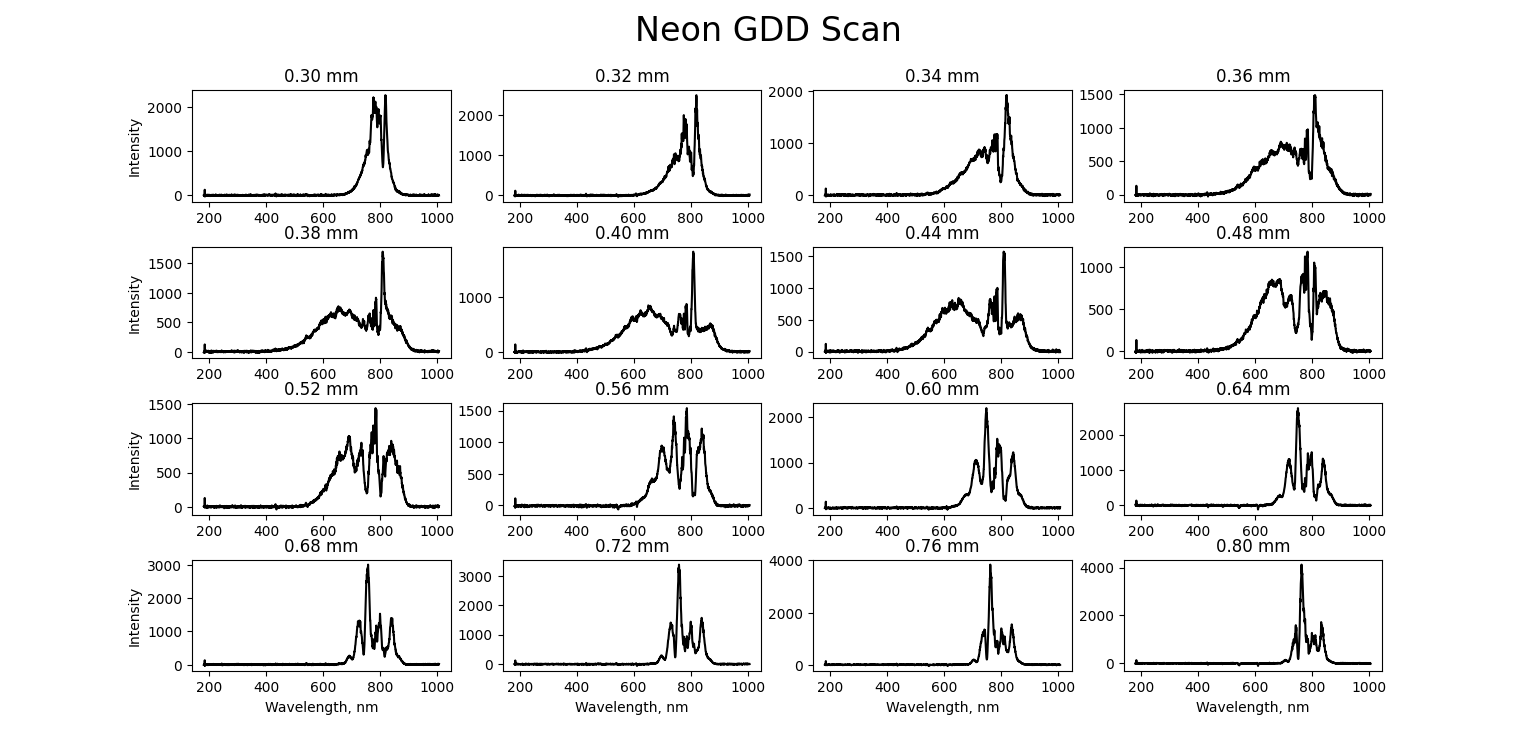
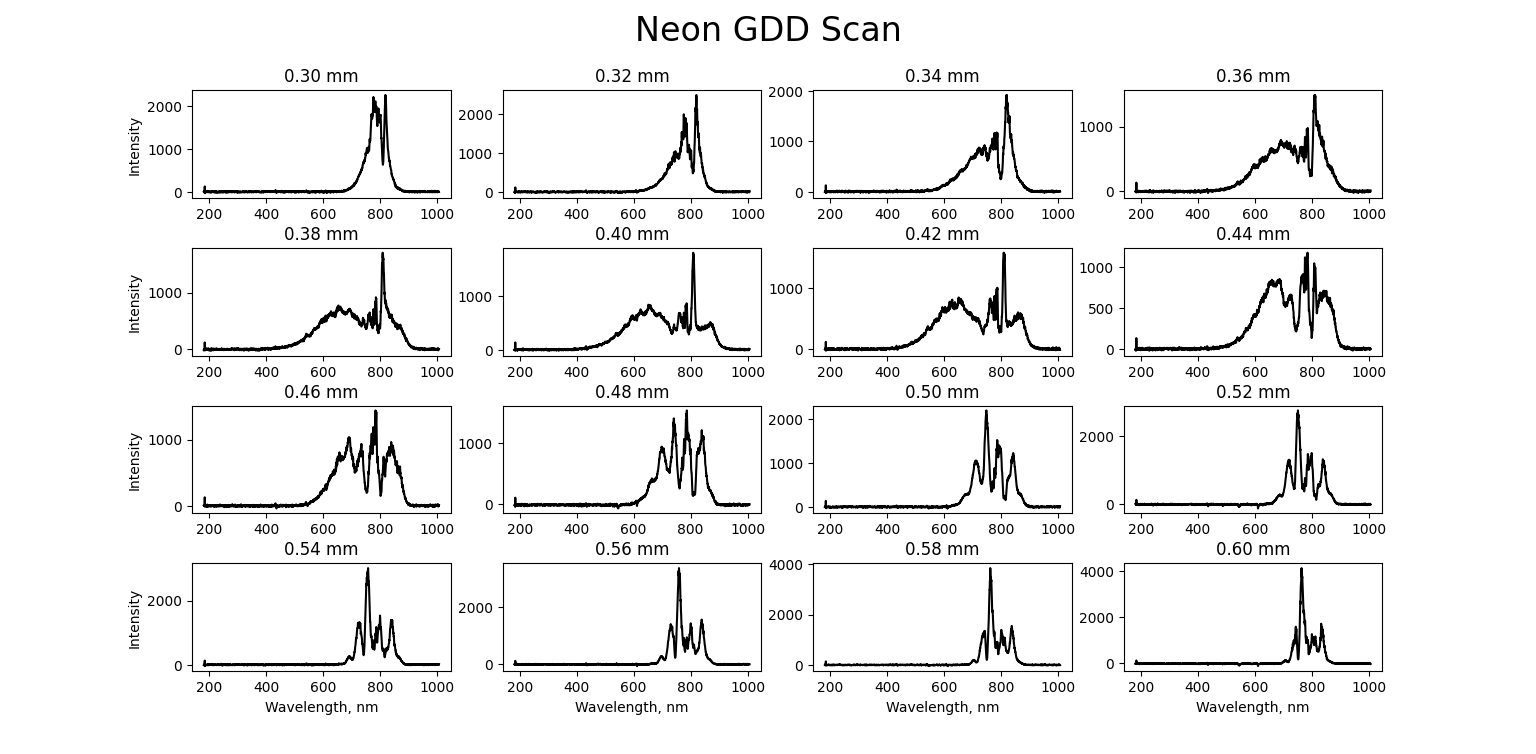
simulated GDD scans

diff --git a/HCF sim/Python/experiments/simulations/GDD_scan.py b/HCF sim/Python/experiments/simulations/GDD_scan.py
@@ -1,0 +1,106 @@
+import julia
+import matplotlib.pyplot as plt
+import numpy as np
+import pandas as pd
+import csv  
+import sys
+
+#sys.path.append("C:\\Users\\ML\\OneDrive - Imperial College London\\MSci_Project\\code\\Synth\\Optimising-Field-Synthesiser\\HCF sim\\Python\\building datasets\\")
+sys.path.append("C:\\Users\\iammo\\Documents\\Optimising-Field-Synthesiser\\HCF sim\\Python\\building_datasets\\")
+from theoretical_width import theoretical_width
+
+#sys.path.append('C:\\Users\\ML\\OneDrive - Imperial College London\\MSci_Project\\code\\Synth\\Optimising-Field-Synthesiser\\BO\\synthesiser_simulation\\chirp\\')
+sys.path.append('C:\\Users\\iammo\\Documents\\Optimising-Field-Synthesiser\\BO\\synthesiser_simulation\\chirp\\')
+from pulse_with_GDD import *
+
+#julia.Julia(runtime="C:\\Users\\ML\\AppData\\Local\\Programs\\Julia-1.7.0\\bin\\julia.exe")
+julia.Julia(runtime="C:\\Users\\iammo\\AppData\\Local\\Programs\\Julia-1.7.1\\bin\\julia.exe")
+
+from julia import Main
+
+Main.using("Luna")
+
+from rms_width import *
+c = 299792458 # m/s
+
+GDDs = np.linspace(-500*(10**-30), 500*(10**-30), 100)
+
+# Read input pulse params
+df = pd.read_csv("C:\\Users\\iammo\\Documents\\Optimising-Field-Synthesiser\\HCF sim\\Python\\experiments\\HCF_scans\\power in\\extracted_params.csv")
+powers = df.iloc[:,0]
+energies = powers/1000
+λ0s = df.iloc[:,1]
+domegas = df.iloc[:,2]
+
+# Define fixed params
+radius = 175e-6 # HCF core radius
+flength = 1.05 # HCF length
+Main.radius = radius
+Main.flength = flength
+c = 299792458 
+omega = np.linspace(2*np.pi*c/λ0s[0] - domegas[0]/2, 2*np.pi*c/λ0s[0] + domegas[0]/2, 100)
+gas = "Ne"
+Main.gas_str = gas
+Main.eval("gas = Symbol(gas_str)")
+pressure = (0,3)
+Main.pressure = pressure
+
+freq_widths=np.array([])
+for i in range(len(GDDs)):
+    print(i)
+    E, ϕω = E_field_freq(omega, GD=0.0, wavel=λ0s[1], domega=domegas[1], amp=1, CEP=0, GDD=GDDs[i], TOD=0)
+    Iω = np.abs(E**2)
+    Main.ω = omega
+    Main.Iω = Iω  
+    Main.phase = ϕω
+    Main.energy = energies[1]
+    Main.λ0 = λ0s[1]
+
+    Main.eval('pulse = Pulses.DataPulse(ω, Iω, phase; energy, λ0=NaN, mode=:lowest, polarisation=:linear, propagator=nothing)')
+    Main.duv = Main.eval('duv = prop_capillary(radius, flength, gas, pressure; λ0, pulses=pulse, trange=400e-15, λlims=(150e-9, 4e-6))')
+    
+    #now extract datasets
+    Main.eval("ω, Iω = Processing.getIω(duv, :ω, flength)")
+    Main.eval('t, Et = Processing.getEt(duv)')
+
+    ## These next lines show how t, Et and zactual could be accessed in the Python namespace for analysis
+    # Once defined, the same method as in time_1d can be used to get the y data needed for analysis of the curve (max heigh, FWHM, etc.), which
+    # subsequently would be the inputs the the BO 
+    #assign python variables
+    ω = Main.ω
+    Iω = Main.Iω
+    width=rms_width(ω,Iω)
+    freq_widths=np.append(freq_widths,width)
+
+wavel_widths = np.array([])
+for i in range(len(freq_widths)):
+    wavel_widths = np.append(wavel_widths, freq_widths[i]*(λ0s[1]**2)/c)
+
+plt.figure()
+plt.scatter(GDDs*(10**30),wavel_widths*(10**9),marker="+")
+plt.ylabel("RMS width, /nm")
+plt.xlabel('GDD, fs^2')
+plt.title('Simulated GDD Scan')
+plt.show()
+
+
+# Save the data
+header = ['GDD, fs^2', 'Simulated RMS Width, nm']
+with open('C:\\Users\\iammo\\Documents\\Optimising-Field-Synthesiser\\HCF sim\\Python\\experiments\\simulations\\data\\GDD_Scan.csv', 'w', encoding='UTF8', newline='') as f:
+    writer = csv.writer(f)
+    # write the header
+    writer.writerow(header)
+
+    # write the dataS
+    for i in range(len(GDDs)):
+        writer.writerow([GDDs[i]*(10**30), wavel_widths[i]*(10**9)])
+
+"""
+import pandas as pd
+df = pd.read_csv("C:\\Users\\iammo\\Documents\\Optimising-Field-Synthesiser\\HCF sim\\Python\\building datasets\\custom_input\\data\\GDD_Ne_long_range_vs_rms_width.csv")
+
+plt.plot(df.iloc[:,0],df.iloc[:,1])
+plt.ylabel("angular frequency width, /s")
+plt.xlabel('GDD, fs^2')
+plt.show()
+"""

diff --git a/HCF sim/Python/experiments/simulations/compare_widths_plot.py b/HCF sim/Python/experiments/simulations/compare_widths_plot.py
@@ -12,6 +12,8 @@ Ar_PowerScan_widths = []
 Ne_PowerScan_widths = []
 Ar_PressureScan_widths = []
 Ne_PressureScan_widths = []
+Ne_GDDScan_widths = []
+Ne_GDDScan_fine_widths = []
 
 Ar_powers = [1.29, 1.2, 1.1, 1.0, 0.9, 0.8, 0.7, 0.6, 0.5, 0.4, 0.3]
 Ne_powers = [1.24, 1.2, 1.1, 1.0, 0.9, 0.8, 0.7, 0.6, 0.5, 0.4, 0.3]
@@ -136,6 +138,77 @@ I = [I3_6, I3_4, I3_2, I3_0, I2_8, I2_6, I2_4, I2_2, I2_0, I1_8, I1_6, I1_4, I1_
 
 for i in range(len(I)):
     Ne_PressureScan_widths.append(rms_width(wavel_nm, I[i]))
+
+# Neon GDD Scan (both normal and fine scans combined)
+lines=[]
+columns=[[],[],[],[],[],[],[],[],[],[],[],[],[],[],[],[]]
+with open (filepath+'HCF_scans\\Neon_3bar_1.1W_GDDScan\\GDDScan.txt', 'rt') as myfile:  # Open lorem.txt for reading
+    for myline in myfile:
+        lines.append(myline)
+
+data=lines[22:] #gets rid of all the stuff at the top
+for i in data:
+    split=i.split("\t") #delimiter is \t
+    for j ,value in enumerate(split):
+        columns[j].append(float(value))
+
+wavel_nm=columns[0]
+I1=columns[1]
+I2=columns[2]
+I3=columns[3]
+I4=columns[4]
+I5=columns[5]
+I6=columns[6]
+I7=columns[7]
+I8=columns[8]
+I9=columns[9]
+I10=columns[10]
+I11=columns[11]
+I12=columns[12]
+I13=columns[13]
+I14=columns[14]
+I15=columns[15]
+
+lines=[]
+columns=[[],[],[],[],[],[],[],[],[],[],[],[],[],[],[],[],[]]
+with open (filepath+'HCF_scans\\Neon_3bar_1.1W_GDDScan\\GDDScan_fine.txt', 'rt') as myfile:  # Open lorem.txt for reading
+    for myline in myfile:
+        lines.append(myline)
+
+data=lines[22:] #gets rid of all the stuff at the top
+for i in data:
+    split=i.split("\t") #delimiter is \t
+    for j ,value in enumerate(split):
+        columns[j].append(float(value))
+
+wavel_nm=columns[0]
+I6_0=columns[1]
+I6_4=columns[2]
+I6_8=columns[3]
+I7_2=columns[4]
+I7_6=columns[5]
+I8_0=columns[6]
+I8_4=columns[7]
+I8_8=columns[8]
+I9_2=columns[9]
+I9_6=columns[10]
+I10_0=columns[11]
+I10_4=columns[12]
+I10_8=columns[13]
+I11_2=columns[14]
+I11_6=columns[15]
+I12_0=columns[16]
+I = [I1, I2, I3, I4, I5, I6, I7, I8, I9, I10, I11, I12, I13, I14, I15]
+Ne_GDDs = [0.05, 0.10, 0.15, 0.20, 0.25, 0.30, 0.35, 0.40, 0.45, 0.50, 0.55, 0.60, 0.65, 0.70, 0.75]
+I2 = [I6_0, I6_4, I6_8, I7_2, I7_6, I8_0, I8_4, I8_8, I9_2, I9_6, I10_0, I10_4, I10_8, I11_2, I11_6, I12_0]
+Ne_GDDs_fine = [0.30, 0.32, 0.34, 0.36, 0.38, 0.40, 0.42, 0.44, 0.46, 0.48, 0.50, 0.52, 0.54, 0.56, 0.58, 0.60]
+
+for i in range(len(I)):
+    Ne_GDDScan_widths.append(rms_width(wavel_nm, I[i]))
+for i in range(len(I2)):
+    Ne_GDDScan_fine_widths.append(rms_width(wavel_nm, I2[i]))
+
+
 
 #####################################################################################################################
 # Read simulation data
@@ -373,4 +446,13 @@ axs[1,0].set_title('Neon Power Scan')
 axs[1,1].set_title('Neon Pressure Scan')
 
 plt.legend()
+
+plt.figure()
+plt.plot(Ne_GDDs, Ne_GDDScan_widths, '+', color='tab:blue', label='Rough scan')
+plt.plot(Ne_GDDs_fine, Ne_GDDScan_fine_widths, '+', color='tab:red', label='Fine Scan')
+plt.title('Neon GDD Scan Widths')
+plt.xlabel('Compressor grating displacement, mm')
+plt.ylabel('RMS width, nm')
+plt.legend()
+
 plt.show()

diff --git a/HCF sim/Python/experiments/simulations/compare_outputs_plot.py b/HCF sim/Python/experiments/simulations/compare_outputs_plot.py
@@ -562,16 +562,16 @@ axs_Ne_GDDs_fine[0,2].set_title('0.34 mm')
 axs_Ne_GDDs_fine[0,3].set_title('0.36 mm')
 axs_Ne_GDDs_fine[1,0].set_title('0.38 mm')
 axs_Ne_GDDs_fine[1,1].set_title('0.40 mm')
-axs_Ne_GDDs_fine[1,2].set_title('0.44 mm')
-axs_Ne_GDDs_fine[1,3].set_title('0.48 mm')
-axs_Ne_GDDs_fine[2,0].set_title('0.52 mm')
-axs_Ne_GDDs_fine[2,1].set_title('0.56 mm')
-axs_Ne_GDDs_fine[2,2].set_title('0.60 mm')
-axs_Ne_GDDs_fine[2,3].set_title('0.64 mm')
-axs_Ne_GDDs_fine[3,0].set_title('0.68 mm')
-axs_Ne_GDDs_fine[3,1].set_title('0.72 mm')
-axs_Ne_GDDs_fine[3,2].set_title('0.76 mm')
-axs_Ne_GDDs_fine[3,3].set_title('0.80 mm')
+axs_Ne_GDDs_fine[1,2].set_title('0.42 mm')
+axs_Ne_GDDs_fine[1,3].set_title('0.44 mm')
+axs_Ne_GDDs_fine[2,0].set_title('0.46 mm')
+axs_Ne_GDDs_fine[2,1].set_title('0.48 mm')
+axs_Ne_GDDs_fine[2,2].set_title('0.50 mm')
+axs_Ne_GDDs_fine[2,3].set_title('0.52 mm')
+axs_Ne_GDDs_fine[3,0].set_title('0.54 mm')
+axs_Ne_GDDs_fine[3,1].set_title('0.56 mm')
+axs_Ne_GDDs_fine[3,2].set_title('0.58 mm')
+axs_Ne_GDDs_fine[3,3].set_title('0.60 mm')
 
 axs_Ar_powers[2,1].legend(loc='center left', bbox_to_anchor=(1, 0.5))
 axs_Ne_powers[2,1].legend(loc='center left', bbox_to_anchor=(1, 0.5))
